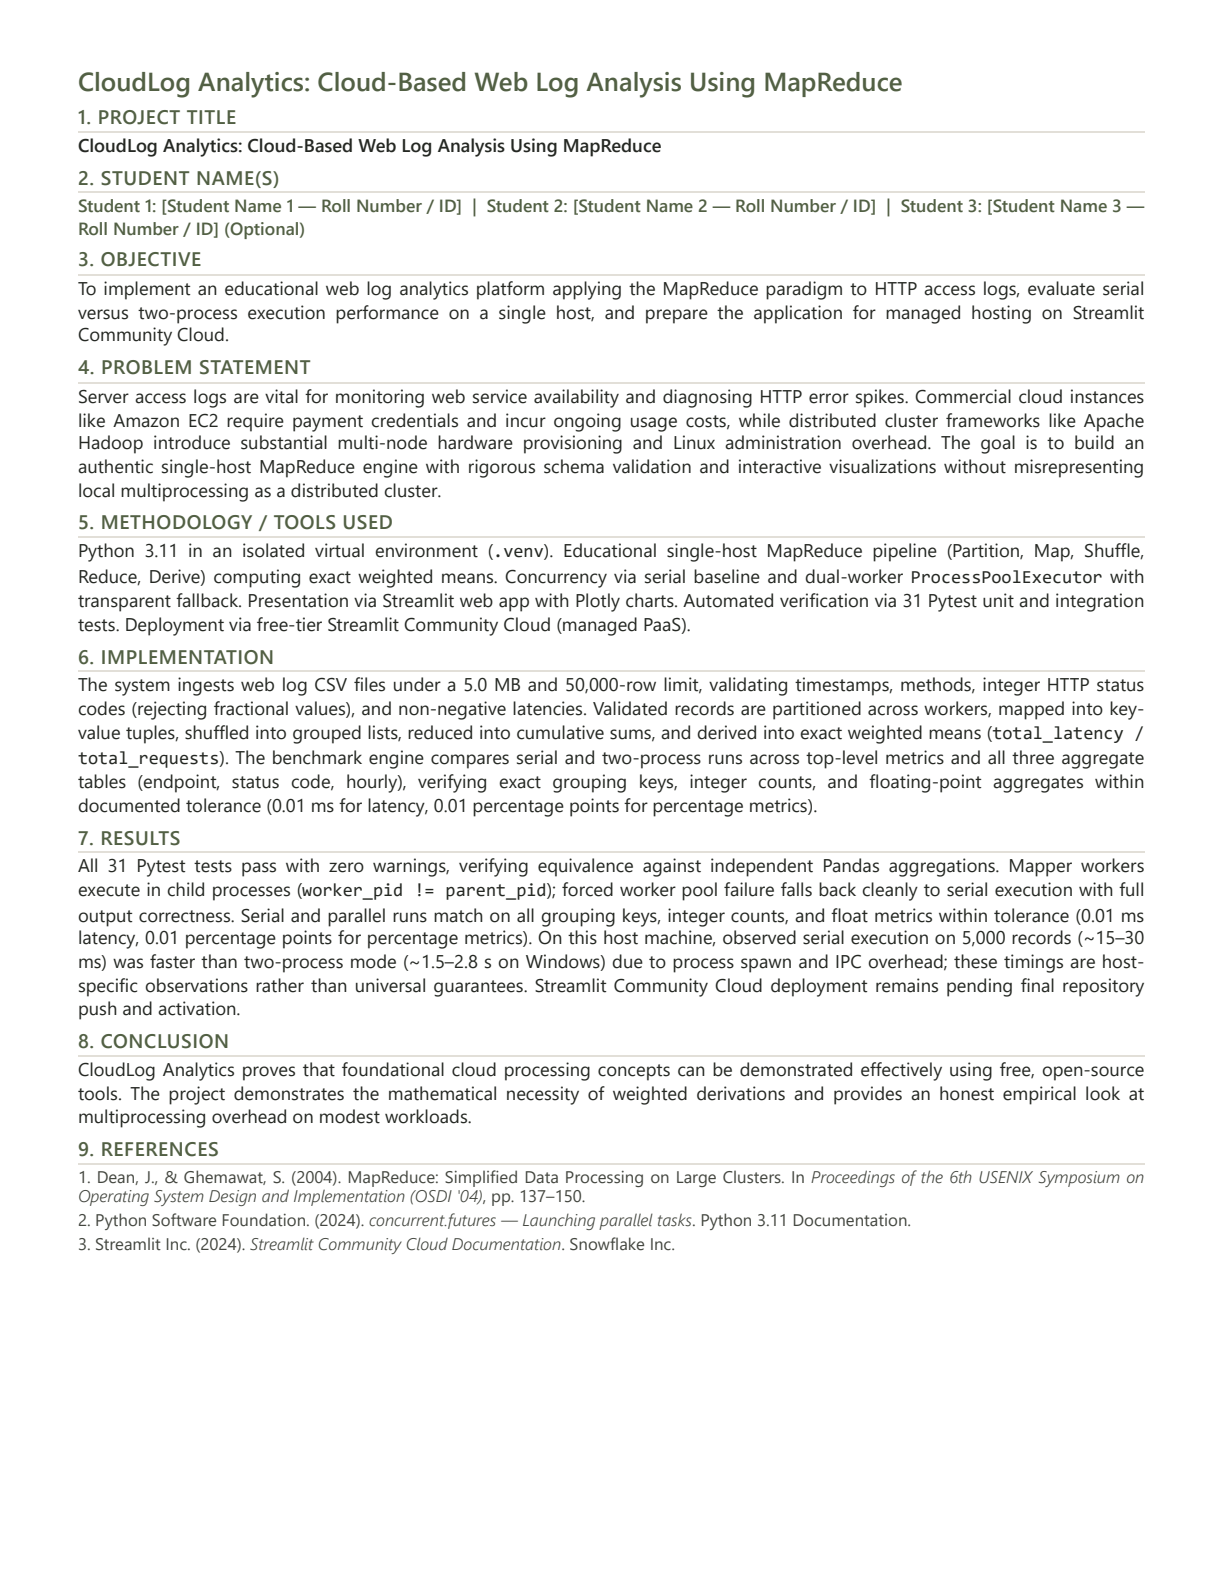
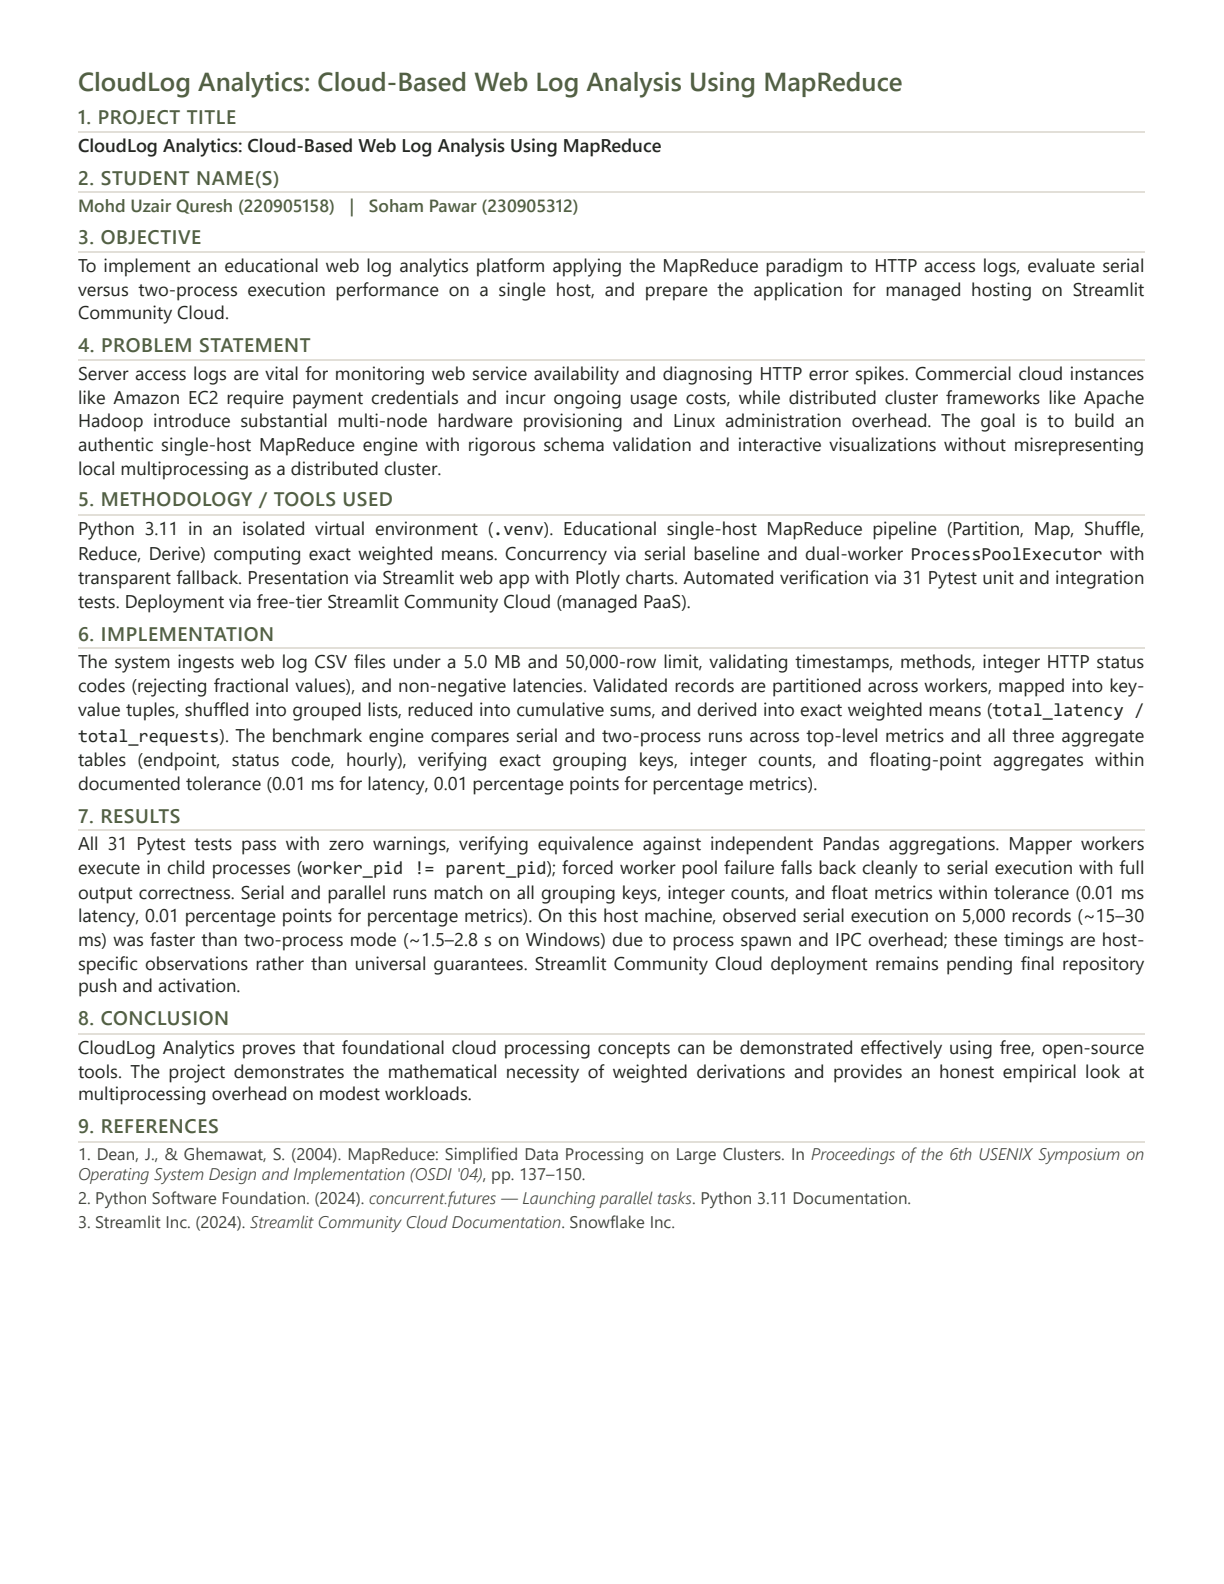
docs: add student names Mohd Uzair Quresh (220905158) and Soham Pawar (230905312) to report

Changed region(s): [[0.0621, 0.1237, 0.9314, 0.8043]]

diff --git a/scripts/generate_report_docs.py b/scripts/generate_report_docs.py
@@ -66,7 +66,7 @@ def create_docx():
 
     # 2. Student Name(s)
     add_h("Student Name(s)")
-    add_p("Student 1: [Student Name 1 — Roll Number / ID] | Student 2: [Student Name 2 — Roll Number / ID] | Student 3: [Student Name 3 — Roll Number / ID] (Optional)", space_before=0, space_after=2)
+    add_p("Mohd Uzair Quresh (220905158)  |  Soham Pawar (230905312)", space_before=0, space_after=2)
 
     # 3. Objective
     add_h("Objective")
@@ -170,7 +170,7 @@ def create_pdf_and_verify():
 <p><b>CloudLog Analytics: Cloud-Based Web Log Analysis Using MapReduce</b></p>
 
 <h2>2. Student Name(s)</h2>
-<p class="names">Student 1: [Student Name 1 — Roll Number / ID] &nbsp;|&nbsp; Student 2: [Student Name 2 — Roll Number / ID] &nbsp;|&nbsp; Student 3: [Student Name 3 — Roll Number / ID] (Optional)</p>
+<p class="names">Mohd Uzair Quresh (220905158) &nbsp;&nbsp;|&nbsp;&nbsp; Soham Pawar (230905312)</p>
 
 <h2>3. Objective</h2>
 <p>To implement an educational web log analytics platform applying the MapReduce paradigm to HTTP access logs, evaluate serial versus two-process execution performance on a single host, and prepare the application for managed hosting on Streamlit Community Cloud.</p>

diff --git a/docs/DEMO_SCRIPT.md b/docs/DEMO_SCRIPT.md
@@ -6,6 +6,8 @@ This demonstration script is designed for a **10-minute university presentation 
 
 ## Team Role Allocation Matrix
 
+**Team Members**: Mohd Uzair Quresh (`220905158`) [Student A / 1] & Soham Pawar (`230905312`) [Student B / 2].
+
 | Demo Segment | Time | 2-Student Team | 3-Student Team | Focus Area |
 | :--- | :--- | :--- | :--- | :--- |
 | **1. Introduction & Context** | 0:00 – 1:30 | **Student A** | **Student 1** | Problem statement, cloud context, architecture |

diff --git a/docs/REPORT_DRAFT.md b/docs/REPORT_DRAFT.md
@@ -4,9 +4,8 @@
 ---
 
 ### Student Name(s)
-- Student 1: `[Student Name 1 — Roll Number / ID]`
-- Student 2: `[Student Name 2 — Roll Number / ID]`
-- Student 3: `[Student Name 3 — Roll Number / ID]` *(Optional)*
+- Mohd Uzair Quresh (Reg. No. 220905158)
+- Soham Pawar (Reg. No. 230905312)
 
 ---
 
